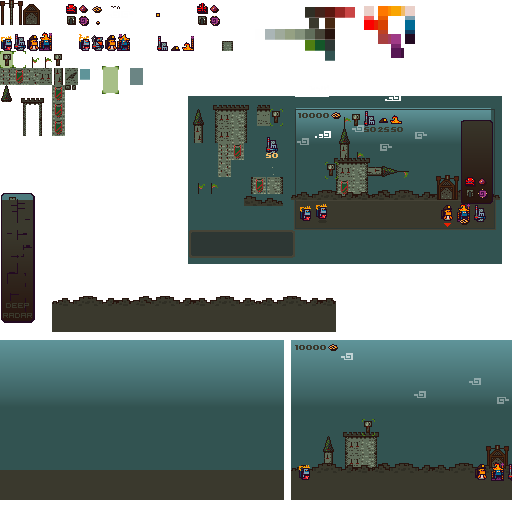
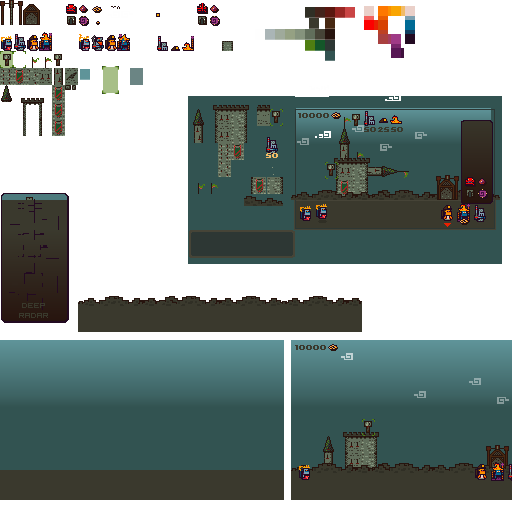
+ Doubled radar size for ease of clicking.

Changed region(s): [[0.0, 0.375, 0.7188, 0.6562]]

diff --git a/core/src/net/mostlyoriginal/game/system/UITitleSystem.java b/core/src/net/mostlyoriginal/game/system/UITitleSystem.java
@@ -53,21 +53,22 @@ public class UITitleSystem extends VoidEntitySystem {
         fontManager.fontMedium.setColor(1f, 1f, 1f, a);
         fontManager.fontLarge.setColor(1f, 1f, 1f, a);
 
-        fontManager.fontLarge.draw(batch, title, cameraSystem.getPixelWidth() / 2 -
+        float offsetX = cameraSystem.getPixelWidth() / 2 + 32;
+        fontManager.fontLarge.draw(batch, title, offsetX -
                 fontManager.fontLarge.getBounds(title).width / 2, cameraSystem.getPixelHeight() * 0.7f);
 
         if ( !sub1.equals("")) {
-            fontManager.fontMedium.draw(batch, sub1, cameraSystem.getPixelWidth() / 2 -
+            fontManager.fontMedium.draw(batch, sub1, offsetX -
                     fontManager.fontMedium.getBounds(sub1).width / 2, cameraSystem.getPixelHeight() * 0.7f - 20);
         }
 
         if ( !sub2.equals("")) {
-            fontManager.fontMedium.draw(batch, sub2, cameraSystem.getPixelWidth() / 2 -
+            fontManager.fontMedium.draw(batch, sub2, offsetX -
                     fontManager.fontMedium.getBounds(sub2).width / 2, cameraSystem.getPixelHeight() * 0.7f - 35);
         }
 
         if ( !sub3.equals("")) {
-            fontManager.font.draw(batch, sub3, cameraSystem.getPixelWidth() / 2 -
+            fontManager.font.draw(batch, sub3, offsetX -
                     fontManager.font.getBounds(sub3).width / 2, cameraSystem.getPixelHeight() * 0.7f - 50);
         }
 

diff --git a/core/src/net/mostlyoriginal/game/system/agent/QuesteePositioningSystem.java b/core/src/net/mostlyoriginal/game/system/agent/QuesteePositioningSystem.java
@@ -48,10 +48,10 @@ public class QuesteePositioningSystem extends EntityProcessingSystem {
 
         Pos pos = pm.get(e);
         if ( placeRight) {
-            pos.x = cameraSystem.getPixelWidth() - 10 - 13 - 20 * countRight;
+            pos.x = cameraSystem.getPixelWidth() - 10 - 13 - 18 * countRight;
             countRight++;
         } else {
-            pos.x = cameraSystem.getPixelWidth() / 2 - (10 * countLeft);
+            pos.x = (cameraSystem.getPixelWidth() / 2 + 22) - (18 * countLeft);
             countLeft++;
         }
 

diff --git a/core/src/net/mostlyoriginal/game/system/CastleSystem.java b/core/src/net/mostlyoriginal/game/system/CastleSystem.java
@@ -29,7 +29,7 @@ public class CastleSystem extends EntityProcessingSystem {
     public static final int H = 6;
     public static final int W = 12;
     private static final int BIRD_SPAWN_LEVEL = 3;
-    public static final int CASTLE_X_OFFSET = 50;
+    public static final int CASTLE_X_OFFSET = 85;
     public CastleBlock.Type castle[][] = new CastleBlock.Type[H][W];
     public CastleBlock.Type bestCastle[][] = new CastleBlock.Type[H][W];
 

diff --git a/core/src/net/mostlyoriginal/game/manager/AssetSystem.java b/core/src/net/mostlyoriginal/game/manager/AssetSystem.java
@@ -24,8 +24,8 @@ public class AssetSystem extends net.mostlyoriginal.api.manager.AbstractAssetSys
         super();
 
         add("background", 0, 340, 284, 160,1);
-        add("hills", 52, 296, 284, 36,1);
-        add("radar", 1, 193, 34, 130,1);
+        add("hills", 78, 296, 284, 36,1);
+        add("radar", 1, 193, 68, 130,1);
 
         add("lift-frame", 0, 0, 23, 25,1);
         add("lift-cage", 23, 4, 17, 21,1);

diff --git a/core/src/net/mostlyoriginal/game/manager/EntityFactorySystem.java b/core/src/net/mostlyoriginal/game/manager/EntityFactorySystem.java
@@ -429,7 +429,7 @@ public class EntityFactorySystem extends AbstractEntityFactorySystem {
         super.initialize();
         createEntity("background",0,0).addToWorld();
         createEntity("hills",0,0).addToWorld();
-        createEntity("lift",211,30).addToWorld();
+        createEntity("lift",251,30).addToWorld();
 
         createEntity("queen",0, SERVANT_Y).addToWorld();
 

diff --git a/core/src/net/mostlyoriginal/game/system/DirectorSystem.java b/core/src/net/mostlyoriginal/game/system/DirectorSystem.java
@@ -69,7 +69,7 @@ public class DirectorSystem  extends VoidEntitySystem {
     }
 
     private int randomRadarX() {
-        return entityFactory.RADAR_X + 3 + MathUtils.random(20);
+        return entityFactory.RADAR_X + 3 + MathUtils.random(55);
     }
 
     public void gameOver() {
